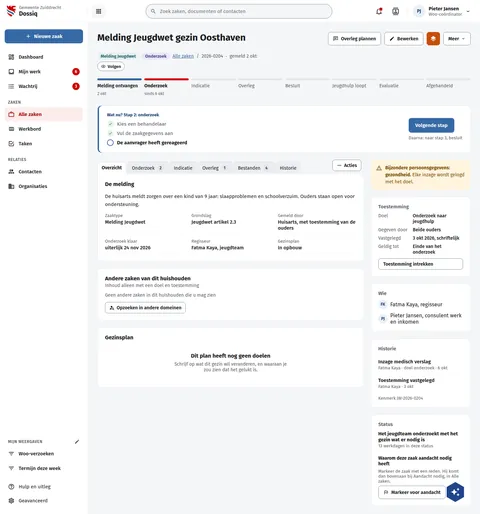
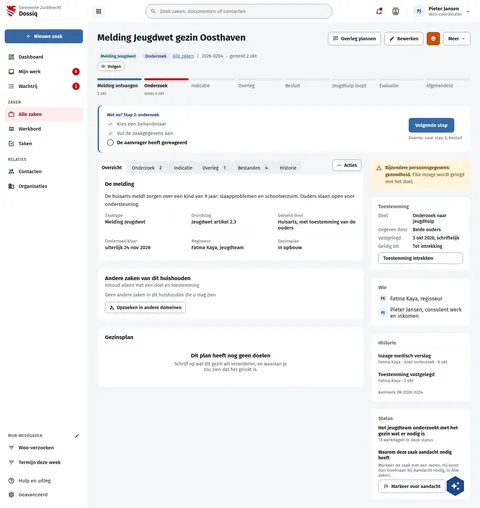
fix(screens): DqSociaalDomein's consent is valid until withdrawn, as live
The Toestemming card drew "Geldig tot: Einde van het onderzoek" over two
lines. A consent's validTo is a date, and an empty one reads "Tot
intrekking" (DATA-32's call: the text cannot be seeded), so live's card is
17px shorter and Wie, Historie and Status stood 17-19px higher (r43). The
board reads "Tot intrekking". Built with build.py --only DqSociaalDomein;
the board's height moves 1542 -> 1525, nothing else in screens.json.

Assisted-by: ClaudeCode:claude-opus-5-5

diff --git a/preview/screens/boards/DqSociaalDomein.html b/preview/screens/boards/DqSociaalDomein.html
@@ -197,7 +197,7 @@ a{color:var(--sc-primary, #3669a5)}a:hover{color:var(--sc-primary-deep, #234a78)
               </li>
             
           </ol>
-        </section><section aria-labelledby="watnu" style="background: #ffffff; border: 1px solid var(--sc-work-line, #e4e6ea); border-radius: 12px; box-shadow: inset 4px 0 0 var(--sc-primary, #3669a5); padding: 20px 24px 20px 28px; display: flex; flex-wrap: wrap; gap: 16px 32px; align-items: center"><div style="flex: 1 1 420px; display: flex; flex-direction: column; gap: 10px"><h2 id="watnu" style="margin: 0; font-size: 13px; font-weight: 700; color: var(--sc-primary-deep, #234a78)">Wat nu? Stap 2: onderzoek</h2><ul style="margin: 0; padding: 0; list-style: none; display: grid; gap: 8px; font-size: 15px"><li style="display: flex; gap: 10px; align-items: center; color: var(--sc-work-muted, #5e6168)"><span style="width: 20px; height: 20px; border-radius: 10px; background: #e7f3ea; color: #1e6b2a; display: flex; align-items: center; justify-content: center; font-size: 12px; font-weight: 700"><svg width="12" height="12" viewbox="0 0 24 24" fill="currentColor"><path d="M21,7L9,19L3.5,13.5L4.91,12.09L9,16.17L19.59,5.59L21,7Z"></path></svg></span>Kies een behandelaar</li><li style="display: flex; gap: 10px; align-items: center; color: var(--sc-work-muted, #5e6168)"><span style="width: 20px; height: 20px; border-radius: 10px; background: #e7f3ea; color: #1e6b2a; display: flex; align-items: center; justify-content: center; font-size: 12px; font-weight: 700"><svg width="12" height="12" viewbox="0 0 24 24" fill="currentColor"><path d="M21,7L9,19L3.5,13.5L4.91,12.09L9,16.17L19.59,5.59L21,7Z"></path></svg></span>Vul de zaakgegevens aan</li><li style="display: flex; gap: 10px; align-items: center"><span style="width: 20px; height: 20px; box-sizing: border-box; border-radius: 10px; border: 2px solid var(--sc-primary, #3669a5)"></span><strong>De aanvrager heeft gereageerd</strong></li></ul></div><div style="display: flex; flex-direction: column; gap: 8px; align-items: flex-start"><button type="button" style="height: 44px; padding: 0 20px; border: 0; border-radius: 8px; background: var(--sc-primary, #3669a5); color: #ffffff; font: 600 15px var(--sc-font, 'Fira Sans'), sans-serif">Volgende stap</button><span style="font-size: 13px; color: var(--sc-work-muted, #5e6168)">Daarna: naar stap 3, besluit</span></div></section><div style="display: flex; flex-wrap: wrap; gap: 20px; align-items: flex-start"><div style="flex: 999 1 520px; min-width: 0; display: flex; flex-direction: column; gap: 20px"><div style="position: relative; display: flex; align-items: flex-end; gap: 8px; margin-bottom: -20px"><div role="tablist" aria-label="Melding Jeugdwet gezin Oosthaven" style="display: flex; flex-wrap: wrap; gap: 4px; flex: 1 1 auto; min-width: 0"><button type="button" role="tab" aria-selected="true" style="display: inline-flex; align-items: center; gap: 8px; box-sizing: border-box; min-height: 34px; padding: 8px 12px; margin-bottom: -1px; border: 1px solid #d6d9de; border-bottom: none; border-radius: 8px 8px 0 0; font: 400 14px var(--sc-font, 'Fira Sans'), sans-serif; color: var(--sc-work-ink, #1b1c1d); background: #eceef1; white-space: nowrap; background: #ffffff; border-bottom: 1px solid #ffffff; font-weight: 700;">Overzicht</button><button type="button" role="tab" aria-selected="false" style="display: inline-flex; align-items: center; gap: 8px; box-sizing: border-box; min-height: 34px; padding: 8px 12px; margin-bottom: -1px; border: 1px solid #d6d9de; border-bottom: none; border-radius: 8px 8px 0 0; font: 400 14px var(--sc-font, 'Fira Sans'), sans-serif; color: var(--sc-work-ink, #1b1c1d); background: #eceef1; white-space: nowrap;">Onderzoek<span style="min-width: 20px; height: 20px; padding: 0 6px; box-sizing: border-box; border-radius: 10px; background: var(--sc-work-line, #e4e6ea); color: var(--sc-work-text, #3d4047); font-size: 12px; font-weight: 600; display: inline-flex; align-items: center; justify-content: center">2</span></button><button type="button" role="tab" aria-selected="false" style="display: inline-flex; align-items: center; gap: 8px; box-sizing: border-box; min-height: 34px; padding: 8px 12px; margin-bottom: -1px; border: 1px solid #d6d9de; border-bottom: none; border-radius: 8px 8px 0 0; font: 400 14px var(--sc-font, 'Fira Sans'), sans-serif; color: var(--sc-work-ink, #1b1c1d); background: #eceef1; white-space: nowrap;">Indicatie</button><button type="button" role="tab" aria-selected="false" style="display: inline-flex; align-items: center; gap: 8px; box-sizing: border-box; min-height: 34px; padding: 8px 12px; margin-bottom: -1px; border: 1px solid #d6d9de; border-bottom: none; border-radius: 8px 8px 0 0; font: 400 14px var(--sc-font, 'Fira Sans'), sans-serif; color: var(--sc-work-ink, #1b1c1d); background: #eceef1; white-space: nowrap;">Overleg<span style="min-width: 20px; height: 20px; padding: 0 6px; box-sizing: border-box; border-radius: 10px; background: var(--sc-work-line, #e4e6ea); color: var(--sc-work-text, #3d4047); font-size: 12px; font-weight: 600; display: inline-flex; align-items: center; justify-content: center">1</span></button><button type="button" role="tab" aria-selected="false" style="display: inline-flex; align-items: center; gap: 8px; box-sizing: border-box; min-height: 34px; padding: 8px 12px; margin-bottom: -1px; border: 1px solid #d6d9de; border-bottom: none; border-radius: 8px 8px 0 0; font: 400 14px var(--sc-font, 'Fira Sans'), sans-serif; color: var(--sc-work-ink, #1b1c1d); background: #eceef1; white-space: nowrap;">Bestanden<span style="min-width: 20px; height: 20px; padding: 0 6px; box-sizing: border-box; border-radius: 10px; background: var(--sc-work-line, #e4e6ea); color: var(--sc-work-text, #3d4047); font-size: 12px; font-weight: 600; display: inline-flex; align-items: center; justify-content: center">4</span></button><button type="button" role="tab" aria-selected="false" style="display: inline-flex; align-items: center; gap: 8px; box-sizing: border-box; min-height: 34px; padding: 8px 12px; margin-bottom: -1px; border: 1px solid #d6d9de; border-bottom: none; border-radius: 8px 8px 0 0; font: 400 14px var(--sc-font, 'Fira Sans'), sans-serif; color: var(--sc-work-ink, #1b1c1d); background: #eceef1; white-space: nowrap;">Historie</button></div><button type="button" aria-haspopup="menu" style="flex: none; align-self: flex-start; margin: 0 8px 8px 0; display: inline-flex; align-items: center; gap: 6px; min-height: 34px; padding: 0 12px; border: 1px solid var(--sc-work-field, #828a95); border-radius: 8px; background: #ffffff; font: 600 14px var(--sc-font, 'Fira Sans'), sans-serif; color: var(--sc-work-ink, #1b1c1d)"><svg width="16" height="16" viewbox="0 0 24 24" fill="currentColor" aria-hidden="true"><path d="M16,12A2,2 0 0,1 18,10A2,2 0 0,1 20,12A2,2 0 0,1 18,14A2,2 0 0,1 16,12M10,12A2,2 0 0,1 12,10A2,2 0 0,1 14,12A2,2 0 0,1 12,14A2,2 0 0,1 10,12M4,12A2,2 0 0,1 6,10A2,2 0 0,1 8,12A2,2 0 0,1 6,14A2,2 0 0,1 4,12Z"></path></svg>Acties</button></div><section style="background: #ffffff; border: 1px solid var(--sc-work-line, #e4e6ea); border-radius: 0 12px 12px 12px; padding: 20px 22px; display: flex; flex-direction: column; gap: 14px"><h2 style="margin: 0; font-size: 17px; font-weight: 700">De melding</h2><p style="margin: 0; font-size: 15px; line-height: 1.6">De huisarts meldt zorgen over een kind van 9 jaar: slaapproblemen en schoolverzuim. Ouders staan open voor ondersteuning.</p><dl style="margin: 0; display: grid; grid-template-columns: repeat(auto-fit, minmax(200px, 1fr)); gap: 12px 24px; font-size: 15px"><div style="display: flex; flex-direction: column; gap: 3px; padding-bottom: 10px; border-bottom: 1px solid var(--sc-work-soft, #eef0f3)"><dt style="font-size: 13px; color: var(--sc-work-muted, #5e6168)">Zaaktype</dt><dd style="margin: 0; font-weight: 500">Melding Jeugdwet</dd></div><div style="display: flex; flex-direction: column; gap: 3px; padding-bottom: 10px; border-bottom: 1px solid var(--sc-work-soft, #eef0f3)"><dt style="font-size: 13px; color: var(--sc-work-muted, #5e6168)">Grondslag</dt><dd style="margin: 0; font-weight: 500">Jeugdwet artikel 2.3</dd></div><div style="display: flex; flex-direction: column; gap: 3px; padding-bottom: 10px; border-bottom: 1px solid var(--sc-work-soft, #eef0f3)"><dt style="font-size: 13px; color: var(--sc-work-muted, #5e6168)">Gemeld door</dt><dd style="margin: 0; font-weight: 500">Huisarts, met toestemming van de ouders</dd></div><div style="display: flex; flex-direction: column; gap: 3px; padding-bottom: 10px; border-bottom: 1px solid var(--sc-work-soft, #eef0f3)"><dt style="font-size: 13px; color: var(--sc-work-muted, #5e6168)">Onderzoek klaar</dt><dd style="margin: 0; font-weight: 500">uiterlijk 24 nov 2026</dd></div><div style="display: flex; flex-direction: column; gap: 3px; padding-bottom: 10px; border-bottom: 1px solid var(--sc-work-soft, #eef0f3)"><dt style="font-size: 13px; color: var(--sc-work-muted, #5e6168)">Regisseur</dt><dd style="margin: 0; font-weight: 500">Fatma Kaya, jeugdteam</dd></div><div style="display: flex; flex-direction: column; gap: 3px; padding-bottom: 10px; border-bottom: 1px solid var(--sc-work-soft, #eef0f3)"><dt style="font-size: 13px; color: var(--sc-work-muted, #5e6168)">Gezinsplan</dt><dd style="margin: 0; font-weight: 500">In opbouw</dd></div></dl></section><section style="background: #ffffff; border: 1px solid var(--sc-work-line, #e4e6ea); border-radius: 12px; padding: 20px 22px; display: flex; flex-direction: column; gap: 12px"><div style="display: flex; flex-wrap: wrap; justify-content: space-between; align-items: center; gap: 8px 12px"><div style="display: flex; flex-direction: column; gap: 2px"><h2 style="margin: 0; font-size: 17px; font-weight: 700">Andere zaken van dit huishouden</h2><span style="font-size: 14px; color: var(--sc-work-muted, #5e6168)">Inhoud alleen met een doel en toestemming</span></div></div><p style="margin: 0; font-size: 14px; color: var(--sc-work-muted, #5e6168)">Geen andere zaken in dit huishouden die u mag zien</p><button type="button" style="align-self: flex-start; display: inline-flex; align-items: center; gap: 6px; min-height: 34px; padding: 0 12px; border: 1px solid var(--sc-work-field, #828a95); border-radius: 8px; background: #ffffff; font: 600 14px var(--sc-font, 'Fira Sans'), sans-serif; color: var(--sc-work-ink, #1b1c1d)"><svg width="16" height="16" viewbox="0 0 24 24" fill="currentColor" aria-hidden="true"><path d="M15.5,12C18,12 20,14 20,16.5C20,17.38 19.75,18.21 19.31,18.9L22.39,22L21,23.39L17.88,20.32C17.19,20.75 16.37,21 15.5,21C13,21 11,19 11,16.5C11,14 13,12 15.5,12M15.5,14A2.5,2.5 0 0,0 13,16.5A2.5,2.5 0 0,0 15.5,19A2.5,2.5 0 0,0 18,16.5A2.5,2.5 0 0,0 15.5,14M10,4A4,4 0 0,1 14,8C14,8.91 13.69,9.75 13.18,10.43C12.32,10.75 11.55,11.26 10.91,11.9L10,12A4,4 0 0,1 6,8A4,4 0 0,1 10,4M2,20V18C2,15.88 5.31,14.14 9.5,14C9.18,14.78 9,15.62 9,16.5C9,17.79 9.38,19 10,20H2Z"></path></svg>Opzoeken in andere domeinen</button></section><section aria-labelledby="gp-titel" style="background: #ffffff; border: 1px solid var(--sc-work-line, #e4e6ea); border-radius: 12px; padding: 20px 22px; display: flex; flex-direction: column; gap: 10px"><h2 id="gp-titel" style="margin: 0; font-size: 17px; font-weight: 700">Gezinsplan</h2><div style="display: flex; flex-direction: column; align-items: center; gap: 6px; padding: 24px 12px; text-align: center"><strong style="font-size: 17px">Dit plan heeft nog geen doelen</strong><span style="font-size: 14px; color: var(--sc-work-muted, #5e6168); max-width: 340px">Schrijf op wat dit gezin wil veranderen, en waaraan je zou zien dat het gelukt is.</span></div></section></div><aside style="flex: 1 1 300px; min-width: 0; display: flex; flex-direction: column; gap: 20px"><section aria-label="Bijzondere persoonsgegevens" style="display: flex; gap: 10px; align-items: flex-start; padding: 14px 16px; border-radius: 12px; background: #fff4de; color: #7a4f00; font-size: 14px; line-height: 1.5"><svg width="18" height="18" viewbox="0 0 24 24" fill="currentColor" aria-hidden="true" style="flex: none; margin-top: 2px"><path d="M12,2L1,21H23M12,6L19.53,19H4.47M11,10V14H13V10M11,16V18H13V16"></path></svg><span><strong>Bijzondere persoonsgegevens: gezondheid.</strong> Elke inzage wordt gelogd met het doel.</span></section><section style="background: #ffffff; border: 1px solid var(--sc-work-line, #e4e6ea); border-radius: 12px; padding: 20px 22px; display: flex; flex-direction: column; gap: 10px"><h2 style="margin: 0; font-size: 15px; font-weight: 600; color: var(--sc-work-muted, #5e6168)">Toestemming</h2><dl style="margin: 0; display: grid; grid-template-columns: max-content 1fr; gap: 8px 16px; font-size: 14px"><dt style="color: var(--sc-work-muted, #5e6168)">Doel</dt><dd style="margin: 0; font-weight: 500">Onderzoek naar jeugdhulp</dd><dt style="color: var(--sc-work-muted, #5e6168)">Gegeven door</dt><dd style="margin: 0; font-weight: 500">Beide ouders</dd><dt style="color: var(--sc-work-muted, #5e6168)">Vastgelegd</dt><dd style="margin: 0; font-weight: 500">3 okt 2026, schriftelijk</dd><dt style="color: var(--sc-work-muted, #5e6168)">Geldig tot</dt><dd style="margin: 0; font-weight: 500">Einde van het onderzoek</dd></dl><button type="button" style="display: inline-flex; align-items: center; gap: 8px; height: 34px; padding: 0 14px; border-radius: 8px; font: 600 14px var(--sc-font, 'Fira Sans'), sans-serif; white-space: nowrap; border: 1px solid var(--sc-work-field, #828a95); background: #ffffff; color: var(--sc-work-ink, #1b1c1d);">Toestemming intrekken</button></section><section style="background: #ffffff; border: 1px solid var(--sc-work-line, #e4e6ea); border-radius: 12px; padding: 20px 22px; display: flex; flex-direction: column; gap: 10px"><h2 style="margin: 0; font-size: 15px; font-weight: 600; color: var(--sc-work-muted, #5e6168)">Wie</h2><span style="display: flex; align-items: center; gap: 8px"><span style="width: 28px; height: 28px; border-radius: 14px; background: var(--sc-primary-light, #eaf0f7); color: var(--sc-primary-deep, #234a78); font-size: 12px; font-weight: 700; display: inline-flex; align-items: center; justify-content: center; flex: none">FK</span>Fatma Kaya, regisseur</span><span style="display: flex; align-items: center; gap: 8px"><span style="width: 28px; height: 28px; border-radius: 14px; background: var(--sc-primary-light, #eaf0f7); color: var(--sc-primary-deep, #234a78); font-size: 12px; font-weight: 700; display: inline-flex; align-items: center; justify-content: center; flex: none">PJ</span>Pieter Jansen, consulent werk en inkomen</span></section><section style="background: #ffffff; border: 1px solid var(--sc-work-line, #e4e6ea); border-radius: 12px; padding: 20px 22px; display: flex; flex-direction: column; gap: 10px"><h2 style="margin: 0; font-size: 15px; font-weight: 600; color: var(--sc-work-muted, #5e6168)">Historie</h2><ul style="margin: 0; padding: 0; list-style: none; display: flex; flex-direction: column"><li style="display: flex; flex-wrap: wrap; gap: 6px 16px; align-items: center; padding: 10px 0; border-top: 1px solid var(--sc-work-soft, #eef0f3)"><span style="flex: 1 1 240px; min-width: 0; display: flex; flex-direction: column; gap: 2px"><span style="font-size: 15px; font-weight: 600">Inzage medisch verslag</span><span style="font-size: 13px; color: var(--sc-work-muted, #5e6168)">Fatma Kaya · doel onderzoek · 6 okt</span></span></li><li style="display: flex; flex-wrap: wrap; gap: 6px 16px; align-items: center; padding: 10px 0; border-top: 1px solid var(--sc-work-soft, #eef0f3)"><span style="flex: 1 1 240px; min-width: 0; display: flex; flex-direction: column; gap: 2px"><span style="font-size: 15px; font-weight: 600">Toestemming vastgelegd</span><span style="font-size: 13px; color: var(--sc-work-muted, #5e6168)">Fatma Kaya · 3 okt</span></span></li></ul><span style="font-size: 13px; color: var(--sc-work-muted, #5e6168)">Kenmerk JW-2026-0204</span></section><section style="background: #ffffff; border: 1px solid var(--sc-work-line, #e4e6ea); border-radius: 12px; padding: 20px 22px; display: flex; flex-direction: column; gap: 10px"><h2 style="margin: 0; font-size: 15px; font-weight: 600; color: var(--sc-work-muted, #5e6168)">Status</h2><span style="display: flex; flex-direction: column; gap: 2px"><strong style="font-size: 15px">Het jeugdteam onderzoekt met het gezin wat er nodig is</strong><span style="font-size: 13px; color: var(--sc-work-muted, #5e6168)">13 werkdagen in deze status</span></span><div style="display: flex; flex-direction: column; gap: 6px; padding-top: 10px; border-top: 1px solid var(--sc-work-soft, #eef0f3)"><strong style="font-size: 14px">Waarom deze zaak aandacht nodig heeft</strong><span style="font-size: 13px; color: var(--sc-work-muted, #5e6168)">Markeer de zaak met een reden. Hij komt dan bovenaan bij Aandacht nodig, in Alle zaken.</span><button type="button" style="align-self: flex-start; display: inline-flex; align-items: center; gap: 8px; height: 40px; padding: 0 14px; border-radius: 8px; border: 1px solid var(--sc-work-field, #828a95); background: #ffffff; color: var(--sc-work-ink, #1b1c1d); font: 600 14px var(--sc-font, 'Fira Sans'), sans-serif; white-space: nowrap"><svg width="16" height="16" viewbox="0 0 24 24" fill="currentColor" aria-hidden="true"><path d="M12.36,6L12.76,8H18V14H14.64L14.24,12H7V6H12.36M14,4H5V21H7V14H12.6L13,16H20V6H14.4"></path></svg>Markeer voor aandacht</button></div></section></aside></div>
+        </section><section aria-labelledby="watnu" style="background: #ffffff; border: 1px solid var(--sc-work-line, #e4e6ea); border-radius: 12px; box-shadow: inset 4px 0 0 var(--sc-primary, #3669a5); padding: 20px 24px 20px 28px; display: flex; flex-wrap: wrap; gap: 16px 32px; align-items: center"><div style="flex: 1 1 420px; display: flex; flex-direction: column; gap: 10px"><h2 id="watnu" style="margin: 0; font-size: 13px; font-weight: 700; color: var(--sc-primary-deep, #234a78)">Wat nu? Stap 2: onderzoek</h2><ul style="margin: 0; padding: 0; list-style: none; display: grid; gap: 8px; font-size: 15px"><li style="display: flex; gap: 10px; align-items: center; color: var(--sc-work-muted, #5e6168)"><span style="width: 20px; height: 20px; border-radius: 10px; background: #e7f3ea; color: #1e6b2a; display: flex; align-items: center; justify-content: center; font-size: 12px; font-weight: 700"><svg width="12" height="12" viewbox="0 0 24 24" fill="currentColor"><path d="M21,7L9,19L3.5,13.5L4.91,12.09L9,16.17L19.59,5.59L21,7Z"></path></svg></span>Kies een behandelaar</li><li style="display: flex; gap: 10px; align-items: center; color: var(--sc-work-muted, #5e6168)"><span style="width: 20px; height: 20px; border-radius: 10px; background: #e7f3ea; color: #1e6b2a; display: flex; align-items: center; justify-content: center; font-size: 12px; font-weight: 700"><svg width="12" height="12" viewbox="0 0 24 24" fill="currentColor"><path d="M21,7L9,19L3.5,13.5L4.91,12.09L9,16.17L19.59,5.59L21,7Z"></path></svg></span>Vul de zaakgegevens aan</li><li style="display: flex; gap: 10px; align-items: center"><span style="width: 20px; height: 20px; box-sizing: border-box; border-radius: 10px; border: 2px solid var(--sc-primary, #3669a5)"></span><strong>De aanvrager heeft gereageerd</strong></li></ul></div><div style="display: flex; flex-direction: column; gap: 8px; align-items: flex-start"><button type="button" style="height: 44px; padding: 0 20px; border: 0; border-radius: 8px; background: var(--sc-primary, #3669a5); color: #ffffff; font: 600 15px var(--sc-font, 'Fira Sans'), sans-serif">Volgende stap</button><span style="font-size: 13px; color: var(--sc-work-muted, #5e6168)">Daarna: naar stap 3, besluit</span></div></section><div style="display: flex; flex-wrap: wrap; gap: 20px; align-items: flex-start"><div style="flex: 999 1 520px; min-width: 0; display: flex; flex-direction: column; gap: 20px"><div style="position: relative; display: flex; align-items: flex-end; gap: 8px; margin-bottom: -20px"><div role="tablist" aria-label="Melding Jeugdwet gezin Oosthaven" style="display: flex; flex-wrap: wrap; gap: 4px; flex: 1 1 auto; min-width: 0"><button type="button" role="tab" aria-selected="true" style="display: inline-flex; align-items: center; gap: 8px; box-sizing: border-box; min-height: 34px; padding: 8px 12px; margin-bottom: -1px; border: 1px solid #d6d9de; border-bottom: none; border-radius: 8px 8px 0 0; font: 400 14px var(--sc-font, 'Fira Sans'), sans-serif; color: var(--sc-work-ink, #1b1c1d); background: #eceef1; white-space: nowrap; background: #ffffff; border-bottom: 1px solid #ffffff; font-weight: 700;">Overzicht</button><button type="button" role="tab" aria-selected="false" style="display: inline-flex; align-items: center; gap: 8px; box-sizing: border-box; min-height: 34px; padding: 8px 12px; margin-bottom: -1px; border: 1px solid #d6d9de; border-bottom: none; border-radius: 8px 8px 0 0; font: 400 14px var(--sc-font, 'Fira Sans'), sans-serif; color: var(--sc-work-ink, #1b1c1d); background: #eceef1; white-space: nowrap;">Onderzoek<span style="min-width: 20px; height: 20px; padding: 0 6px; box-sizing: border-box; border-radius: 10px; background: var(--sc-work-line, #e4e6ea); color: var(--sc-work-text, #3d4047); font-size: 12px; font-weight: 600; display: inline-flex; align-items: center; justify-content: center">2</span></button><button type="button" role="tab" aria-selected="false" style="display: inline-flex; align-items: center; gap: 8px; box-sizing: border-box; min-height: 34px; padding: 8px 12px; margin-bottom: -1px; border: 1px solid #d6d9de; border-bottom: none; border-radius: 8px 8px 0 0; font: 400 14px var(--sc-font, 'Fira Sans'), sans-serif; color: var(--sc-work-ink, #1b1c1d); background: #eceef1; white-space: nowrap;">Indicatie</button><button type="button" role="tab" aria-selected="false" style="display: inline-flex; align-items: center; gap: 8px; box-sizing: border-box; min-height: 34px; padding: 8px 12px; margin-bottom: -1px; border: 1px solid #d6d9de; border-bottom: none; border-radius: 8px 8px 0 0; font: 400 14px var(--sc-font, 'Fira Sans'), sans-serif; color: var(--sc-work-ink, #1b1c1d); background: #eceef1; white-space: nowrap;">Overleg<span style="min-width: 20px; height: 20px; padding: 0 6px; box-sizing: border-box; border-radius: 10px; background: var(--sc-work-line, #e4e6ea); color: var(--sc-work-text, #3d4047); font-size: 12px; font-weight: 600; display: inline-flex; align-items: center; justify-content: center">1</span></button><button type="button" role="tab" aria-selected="false" style="display: inline-flex; align-items: center; gap: 8px; box-sizing: border-box; min-height: 34px; padding: 8px 12px; margin-bottom: -1px; border: 1px solid #d6d9de; border-bottom: none; border-radius: 8px 8px 0 0; font: 400 14px var(--sc-font, 'Fira Sans'), sans-serif; color: var(--sc-work-ink, #1b1c1d); background: #eceef1; white-space: nowrap;">Bestanden<span style="min-width: 20px; height: 20px; padding: 0 6px; box-sizing: border-box; border-radius: 10px; background: var(--sc-work-line, #e4e6ea); color: var(--sc-work-text, #3d4047); font-size: 12px; font-weight: 600; display: inline-flex; align-items: center; justify-content: center">4</span></button><button type="button" role="tab" aria-selected="false" style="display: inline-flex; align-items: center; gap: 8px; box-sizing: border-box; min-height: 34px; padding: 8px 12px; margin-bottom: -1px; border: 1px solid #d6d9de; border-bottom: none; border-radius: 8px 8px 0 0; font: 400 14px var(--sc-font, 'Fira Sans'), sans-serif; color: var(--sc-work-ink, #1b1c1d); background: #eceef1; white-space: nowrap;">Historie</button></div><button type="button" aria-haspopup="menu" style="flex: none; align-self: flex-start; margin: 0 8px 8px 0; display: inline-flex; align-items: center; gap: 6px; min-height: 34px; padding: 0 12px; border: 1px solid var(--sc-work-field, #828a95); border-radius: 8px; background: #ffffff; font: 600 14px var(--sc-font, 'Fira Sans'), sans-serif; color: var(--sc-work-ink, #1b1c1d)"><svg width="16" height="16" viewbox="0 0 24 24" fill="currentColor" aria-hidden="true"><path d="M16,12A2,2 0 0,1 18,10A2,2 0 0,1 20,12A2,2 0 0,1 18,14A2,2 0 0,1 16,12M10,12A2,2 0 0,1 12,10A2,2 0 0,1 14,12A2,2 0 0,1 12,14A2,2 0 0,1 10,12M4,12A2,2 0 0,1 6,10A2,2 0 0,1 8,12A2,2 0 0,1 6,14A2,2 0 0,1 4,12Z"></path></svg>Acties</button></div><section style="background: #ffffff; border: 1px solid var(--sc-work-line, #e4e6ea); border-radius: 0 12px 12px 12px; padding: 20px 22px; display: flex; flex-direction: column; gap: 14px"><h2 style="margin: 0; font-size: 17px; font-weight: 700">De melding</h2><p style="margin: 0; font-size: 15px; line-height: 1.6">De huisarts meldt zorgen over een kind van 9 jaar: slaapproblemen en schoolverzuim. Ouders staan open voor ondersteuning.</p><dl style="margin: 0; display: grid; grid-template-columns: repeat(auto-fit, minmax(200px, 1fr)); gap: 12px 24px; font-size: 15px"><div style="display: flex; flex-direction: column; gap: 3px; padding-bottom: 10px; border-bottom: 1px solid var(--sc-work-soft, #eef0f3)"><dt style="font-size: 13px; color: var(--sc-work-muted, #5e6168)">Zaaktype</dt><dd style="margin: 0; font-weight: 500">Melding Jeugdwet</dd></div><div style="display: flex; flex-direction: column; gap: 3px; padding-bottom: 10px; border-bottom: 1px solid var(--sc-work-soft, #eef0f3)"><dt style="font-size: 13px; color: var(--sc-work-muted, #5e6168)">Grondslag</dt><dd style="margin: 0; font-weight: 500">Jeugdwet artikel 2.3</dd></div><div style="display: flex; flex-direction: column; gap: 3px; padding-bottom: 10px; border-bottom: 1px solid var(--sc-work-soft, #eef0f3)"><dt style="font-size: 13px; color: var(--sc-work-muted, #5e6168)">Gemeld door</dt><dd style="margin: 0; font-weight: 500">Huisarts, met toestemming van de ouders</dd></div><div style="display: flex; flex-direction: column; gap: 3px; padding-bottom: 10px; border-bottom: 1px solid var(--sc-work-soft, #eef0f3)"><dt style="font-size: 13px; color: var(--sc-work-muted, #5e6168)">Onderzoek klaar</dt><dd style="margin: 0; font-weight: 500">uiterlijk 24 nov 2026</dd></div><div style="display: flex; flex-direction: column; gap: 3px; padding-bottom: 10px; border-bottom: 1px solid var(--sc-work-soft, #eef0f3)"><dt style="font-size: 13px; color: var(--sc-work-muted, #5e6168)">Regisseur</dt><dd style="margin: 0; font-weight: 500">Fatma Kaya, jeugdteam</dd></div><div style="display: flex; flex-direction: column; gap: 3px; padding-bottom: 10px; border-bottom: 1px solid var(--sc-work-soft, #eef0f3)"><dt style="font-size: 13px; color: var(--sc-work-muted, #5e6168)">Gezinsplan</dt><dd style="margin: 0; font-weight: 500">In opbouw</dd></div></dl></section><section style="background: #ffffff; border: 1px solid var(--sc-work-line, #e4e6ea); border-radius: 12px; padding: 20px 22px; display: flex; flex-direction: column; gap: 12px"><div style="display: flex; flex-wrap: wrap; justify-content: space-between; align-items: center; gap: 8px 12px"><div style="display: flex; flex-direction: column; gap: 2px"><h2 style="margin: 0; font-size: 17px; font-weight: 700">Andere zaken van dit huishouden</h2><span style="font-size: 14px; color: var(--sc-work-muted, #5e6168)">Inhoud alleen met een doel en toestemming</span></div></div><p style="margin: 0; font-size: 14px; color: var(--sc-work-muted, #5e6168)">Geen andere zaken in dit huishouden die u mag zien</p><button type="button" style="align-self: flex-start; display: inline-flex; align-items: center; gap: 6px; min-height: 34px; padding: 0 12px; border: 1px solid var(--sc-work-field, #828a95); border-radius: 8px; background: #ffffff; font: 600 14px var(--sc-font, 'Fira Sans'), sans-serif; color: var(--sc-work-ink, #1b1c1d)"><svg width="16" height="16" viewbox="0 0 24 24" fill="currentColor" aria-hidden="true"><path d="M15.5,12C18,12 20,14 20,16.5C20,17.38 19.75,18.21 19.31,18.9L22.39,22L21,23.39L17.88,20.32C17.19,20.75 16.37,21 15.5,21C13,21 11,19 11,16.5C11,14 13,12 15.5,12M15.5,14A2.5,2.5 0 0,0 13,16.5A2.5,2.5 0 0,0 15.5,19A2.5,2.5 0 0,0 18,16.5A2.5,2.5 0 0,0 15.5,14M10,4A4,4 0 0,1 14,8C14,8.91 13.69,9.75 13.18,10.43C12.32,10.75 11.55,11.26 10.91,11.9L10,12A4,4 0 0,1 6,8A4,4 0 0,1 10,4M2,20V18C2,15.88 5.31,14.14 9.5,14C9.18,14.78 9,15.62 9,16.5C9,17.79 9.38,19 10,20H2Z"></path></svg>Opzoeken in andere domeinen</button></section><section aria-labelledby="gp-titel" style="background: #ffffff; border: 1px solid var(--sc-work-line, #e4e6ea); border-radius: 12px; padding: 20px 22px; display: flex; flex-direction: column; gap: 10px"><h2 id="gp-titel" style="margin: 0; font-size: 17px; font-weight: 700">Gezinsplan</h2><div style="display: flex; flex-direction: column; align-items: center; gap: 6px; padding: 24px 12px; text-align: center"><strong style="font-size: 17px">Dit plan heeft nog geen doelen</strong><span style="font-size: 14px; color: var(--sc-work-muted, #5e6168); max-width: 340px">Schrijf op wat dit gezin wil veranderen, en waaraan je zou zien dat het gelukt is.</span></div></section></div><aside style="flex: 1 1 300px; min-width: 0; display: flex; flex-direction: column; gap: 20px"><section aria-label="Bijzondere persoonsgegevens" style="display: flex; gap: 10px; align-items: flex-start; padding: 14px 16px; border-radius: 12px; background: #fff4de; color: #7a4f00; font-size: 14px; line-height: 1.5"><svg width="18" height="18" viewbox="0 0 24 24" fill="currentColor" aria-hidden="true" style="flex: none; margin-top: 2px"><path d="M12,2L1,21H23M12,6L19.53,19H4.47M11,10V14H13V10M11,16V18H13V16"></path></svg><span><strong>Bijzondere persoonsgegevens: gezondheid.</strong> Elke inzage wordt gelogd met het doel.</span></section><section style="background: #ffffff; border: 1px solid var(--sc-work-line, #e4e6ea); border-radius: 12px; padding: 20px 22px; display: flex; flex-direction: column; gap: 10px"><h2 style="margin: 0; font-size: 15px; font-weight: 600; color: var(--sc-work-muted, #5e6168)">Toestemming</h2><dl style="margin: 0; display: grid; grid-template-columns: max-content 1fr; gap: 8px 16px; font-size: 14px"><dt style="color: var(--sc-work-muted, #5e6168)">Doel</dt><dd style="margin: 0; font-weight: 500">Onderzoek naar jeugdhulp</dd><dt style="color: var(--sc-work-muted, #5e6168)">Gegeven door</dt><dd style="margin: 0; font-weight: 500">Beide ouders</dd><dt style="color: var(--sc-work-muted, #5e6168)">Vastgelegd</dt><dd style="margin: 0; font-weight: 500">3 okt 2026, schriftelijk</dd><dt style="color: var(--sc-work-muted, #5e6168)">Geldig tot</dt><dd style="margin: 0; font-weight: 500">Tot intrekking</dd></dl><button type="button" style="display: inline-flex; align-items: center; gap: 8px; height: 34px; padding: 0 14px; border-radius: 8px; font: 600 14px var(--sc-font, 'Fira Sans'), sans-serif; white-space: nowrap; border: 1px solid var(--sc-work-field, #828a95); background: #ffffff; color: var(--sc-work-ink, #1b1c1d);">Toestemming intrekken</button></section><section style="background: #ffffff; border: 1px solid var(--sc-work-line, #e4e6ea); border-radius: 12px; padding: 20px 22px; display: flex; flex-direction: column; gap: 10px"><h2 style="margin: 0; font-size: 15px; font-weight: 600; color: var(--sc-work-muted, #5e6168)">Wie</h2><span style="display: flex; align-items: center; gap: 8px"><span style="width: 28px; height: 28px; border-radius: 14px; background: var(--sc-primary-light, #eaf0f7); color: var(--sc-primary-deep, #234a78); font-size: 12px; font-weight: 700; display: inline-flex; align-items: center; justify-content: center; flex: none">FK</span>Fatma Kaya, regisseur</span><span style="display: flex; align-items: center; gap: 8px"><span style="width: 28px; height: 28px; border-radius: 14px; background: var(--sc-primary-light, #eaf0f7); color: var(--sc-primary-deep, #234a78); font-size: 12px; font-weight: 700; display: inline-flex; align-items: center; justify-content: center; flex: none">PJ</span>Pieter Jansen, consulent werk en inkomen</span></section><section style="background: #ffffff; border: 1px solid var(--sc-work-line, #e4e6ea); border-radius: 12px; padding: 20px 22px; display: flex; flex-direction: column; gap: 10px"><h2 style="margin: 0; font-size: 15px; font-weight: 600; color: var(--sc-work-muted, #5e6168)">Historie</h2><ul style="margin: 0; padding: 0; list-style: none; display: flex; flex-direction: column"><li style="display: flex; flex-wrap: wrap; gap: 6px 16px; align-items: center; padding: 10px 0; border-top: 1px solid var(--sc-work-soft, #eef0f3)"><span style="flex: 1 1 240px; min-width: 0; display: flex; flex-direction: column; gap: 2px"><span style="font-size: 15px; font-weight: 600">Inzage medisch verslag</span><span style="font-size: 13px; color: var(--sc-work-muted, #5e6168)">Fatma Kaya · doel onderzoek · 6 okt</span></span></li><li style="display: flex; flex-wrap: wrap; gap: 6px 16px; align-items: center; padding: 10px 0; border-top: 1px solid var(--sc-work-soft, #eef0f3)"><span style="flex: 1 1 240px; min-width: 0; display: flex; flex-direction: column; gap: 2px"><span style="font-size: 15px; font-weight: 600">Toestemming vastgelegd</span><span style="font-size: 13px; color: var(--sc-work-muted, #5e6168)">Fatma Kaya · 3 okt</span></span></li></ul><span style="font-size: 13px; color: var(--sc-work-muted, #5e6168)">Kenmerk JW-2026-0204</span></section><section style="background: #ffffff; border: 1px solid var(--sc-work-line, #e4e6ea); border-radius: 12px; padding: 20px 22px; display: flex; flex-direction: column; gap: 10px"><h2 style="margin: 0; font-size: 15px; font-weight: 600; color: var(--sc-work-muted, #5e6168)">Status</h2><span style="display: flex; flex-direction: column; gap: 2px"><strong style="font-size: 15px">Het jeugdteam onderzoekt met het gezin wat er nodig is</strong><span style="font-size: 13px; color: var(--sc-work-muted, #5e6168)">13 werkdagen in deze status</span></span><div style="display: flex; flex-direction: column; gap: 6px; padding-top: 10px; border-top: 1px solid var(--sc-work-soft, #eef0f3)"><strong style="font-size: 14px">Waarom deze zaak aandacht nodig heeft</strong><span style="font-size: 13px; color: var(--sc-work-muted, #5e6168)">Markeer de zaak met een reden. Hij komt dan bovenaan bij Aandacht nodig, in Alle zaken.</span><button type="button" style="align-self: flex-start; display: inline-flex; align-items: center; gap: 8px; height: 40px; padding: 0 14px; border-radius: 8px; border: 1px solid var(--sc-work-field, #828a95); background: #ffffff; color: var(--sc-work-ink, #1b1c1d); font: 600 14px var(--sc-font, 'Fira Sans'), sans-serif; white-space: nowrap"><svg width="16" height="16" viewbox="0 0 24 24" fill="currentColor" aria-hidden="true"><path d="M12.36,6L12.76,8H18V14H14.64L14.24,12H7V6H12.36M14,4H5V21H7V14H12.6L13,16H20V6H14.4"></path></svg>Markeer voor aandacht</button></div></section></aside></div>
       </main>
     </div>
   </div>
